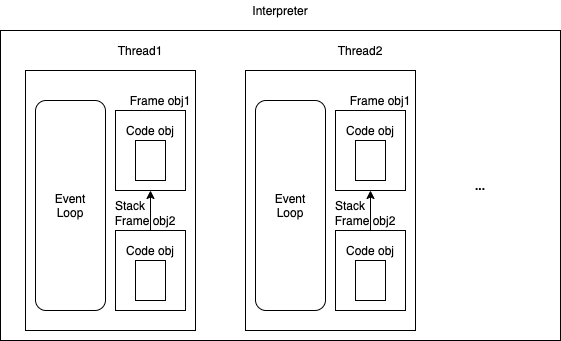
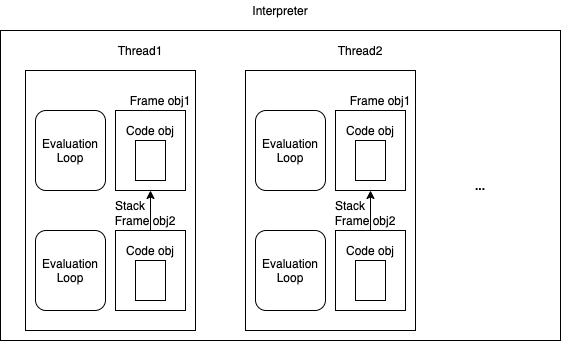
lid: ch6 add evaluation loop

diff --git a/Language_in_depth/python/cpython/6_evaluation_loop.md b/Language_in_depth/python/cpython/6_evaluation_loop.md
@@ -3,6 +3,13 @@
 - 의문
 - 0. 부록: python gil scheduling
 - 개요
+- Frame Execution
+- The Value Stack
+- Macros
+- Stack Effects
+- Opcode Predictions
+- `CALL_FUNCTION`, `CALL_METHOD`
+- Conclusion
 
 ## 의문
 
@@ -10,6 +17,7 @@
   - 그렇기 때문에 결국에는 한번에 하나의 스레드의 instruction밖에 실행하지 못하는 것인가?
   - I/O bound 연산의 경우에는 CPU bound 동작이 없으므로 득을 볼 수 있는 것인가?
   - **아니다. 각 스레드마다 evaluation loop이 존재한다. 다만, GIL로 락이 걸려있을 뿐**
+- *PREDICT macro는 얼마나 효율적인가? 그렇게 시간복잡도에 큰 영향을 끼치는가?*
 
 ## 0. 부록: python gil scheduling
 
@@ -124,14 +132,14 @@ def execution_loop(target_function, thread_id):
   - 그렇지 않으면 굳이 lock을 할 필요가 없을듯
 - 스레드가 새로 생성되면 `take_gil()` 메서드 실행
 - GIL을 특정 thread가 가져감(take_gil)
-- evaluation loop는 해당 thread의 thread state에서 frame오브젝트를 가져옴
-- frame오브젝트는 code object를 가져옴
+- 해당 thread의 thread state에서 와 다른 정보로부터 frame오브젝트 생성
+  - frame오브젝트는 code object를 포함
 - evaluation loop는 해당 code object를 실행
 - 동작이 끝나고, 기존에 gil을 기다리는 스레드가 존재하면(`gil.drop_request = True`) `drop_gil` 메서드 실행
 - 의문
   - 위의 psudo code에서 gil에 의한 lock은 evaluation loop의 어디에서 일어나는지?
     - `take_gil()`함수에서 무한 루프를 돌게 되어있음
-  - *새로운 스레드가 spawn되면 `take_gil()`이 동작한다고 했는데, 여기서 일단 `gil_mutex.acquire()`를 한 뒤에, `gil.drop_request = True`로 설정하고, 계속해서 무한루프를 돌고, `drop_gil()`에서 `gil.locked = False`가 될 때까지 반복하는데, 그 전에 `drop_gil()`에서도 `gil_mutex.acquire()`를 호출하는데, 그럼 데드락이 발생하는 것 아닌가?*
+  - 새로운 스레드가 spawn되면 `take_gil()`이 동작한다고 했는데, 여기서 일단 `gil_mutex.acquire()`를 한 뒤에, `gil.drop_request = True`로 설정하고, 계속해서 무한루프를 돌고, `drop_gil()`에서 `gil.locked = False`가 될 때까지 반복하는데, 그 전에 `drop_gil()`에서도 `gil_mutex.acquire()`를 호출하는데, 그럼 데드락이 발생하는 것 아닌가?
     - `gil_condition.wait()`이 자신의 **lock을 release하면서** timeout까지 기다리거나, `notify()`메서드가 다른 lock을 acquire한 곳에서 호출되기 까지 기다림.
     - 스레드가 여러개인 경우, `take_gil()` 각 함수들은 `take_gil()`의 코드 중 `timed_out = not gil_condition.wait(timeout=DEFAULT_INTERVAL)`에서 블로킹 되고 있고, condition에 `wait()` 순서를 데이터로 관리 (FIFO) 하고 있고, `gil`을 소유하고 있는 thread는 `drop_gil()`에서 가장 먼저 `wait()`하고 있던 thread의 `wait()`을 풀어주고, (`gil_condition.notify(), gil_mutex.release()`) 자신도 `take_gil()`에서 순서를 기다림
   - *`GIL`은 priority나 waiting 타임을 상황에 따라서 변경하는 로직이 존재하는가?*
@@ -212,7 +220,7 @@ f3.start()
 
 - Code objects
   - 개요
-    - 오브젝트 s.t AST로부터 파싱된 bytecode형태의 discrete 연산의 리스트를 포함
+    - 오브젝트 s.t AST로부터 파싱된 bytecode형태의 discrete 연산의 리스트 and list of variables and symbol table
     - code object는 input이 있어야 실행이 가능
       - input은 local, global 변수의 형태로 받아들여짐(Value Stack에서 다뤄짐)
     - **결국 컴파일러는 코드 오브젝트를 생성하는 역할이고, 그것을 실제로 실행하고 state를 다루는 것은 interpreter의 역할**
@@ -379,7 +387,7 @@ _PyEval_EvalFrame(PyThreadState *tstate, PyFrameObject *f, int throwflag)
 
 // 위의 interp->eval_frame(tstate, f, throwflag) 의 호출은
 // 아래의 _PyEval_EvalFrameDefault() 메서드의 호출과 같음
-
+// this function is only option for CPython
 PyObject* _Py_HOT_FUNCTION
 _PyEval_EvalFrameDefault(PyThreadState *tstate, PyFrameObject *f, int throwflag)
 {
@@ -477,6 +485,9 @@ main_loop:
           }
 
           case TARGET(LOAD_FAST): {
+              // The list of variable pointers is stored in `fastlocals`, which is copy of the PyFrame attribute `f_localsplus`
+              // oparg is a number, pointing to the index in the `fastlocals` array pointer
+              // loading of a local is simply a copy of the pointer instead of having to look up the variable name
               PyObject *value = GETLOCAL(oparg);
               if (value == NULL) {
                   format_exc_check_arg(tstate, PyExc_UnboundLocalError,
@@ -520,6 +531,41 @@ main_loop:
           }
 
           ...
+
+          case TARGET(LIST_APPEND): {
+              // element to be appended is from the value stack
+              PyObject *v = POP();
+              // list pointer is loaded
+              PyObject *list = PEEK(oparg);
+              int err;
+              // defined at Objects > listobject.c
+              err = PyList_Append(list, v);
+              Py_DECREF(v);
+              if (err != 0)
+                  goto error;
+              // guess the next operation
+              // CPU can jump to that instruction and not have to go through the loop again
+              PREDICT(JUMP_ABSOLUTE);
+              DISPATCH();
+          }
+
+          ...
+
+          case TARGET(CALL_FUNCTION): {
+              PREDICTED(CALL_FUNCTION);
+              PyObject **sp, *res;
+              sp = stack_pointer;
+              res = call_function(tstate, &sp, oparg, NULL);
+              stack_pointer = sp;
+              PUSH(res);
+              if (res == NULL) {
+                  goto error;
+              }
+              DISPATCH();
+          }
+
+          ...
+
         }
 exiting:
     if (tstate->use_tracing) {
@@ -657,3 +703,69 @@ dis.dis(test_func)
     - `next_instr++`
   - `FAST_DISPATCH()`
     - fast_next_opcode 로 넘어감
+- Cpython에서 C Macro가 많은 이유
+  - 함수 호출 오버헤드 없이 reusable한 코드를 생성할 수 있음
+    - compile time에 macro를 C code로 변환함
+
+## Frame Execution
+
+- `_PyEval_EvalFrameDefault()`
+  - **CPython에서 실행되는 모든 것들은 이 함수를 통과하게 되어있음**
+
+## The Value Stack
+
+- value stack
+  - 정의
+    - `PyObject`인스턴스로 이어지는 포인터의 리스트
+      - 변수, 함수에의 참조(Python object), 또 다른 파이썬 오브젝트일 수 있음
+    - Bytecode instruction은 value stack으로부터 input을 받음
+      - e.g) 함수 호출
+
+## Macros
+
+- `POP()`
+  - Value stack의 가장 위에 있는 원소를 가져오고 pop함
+- `PEEK(0)`
+  - Value stack의 가장 위에 있는 원소의 pointer를 가져옴
+- `DUP_TOP()`
+  - Value stack의 가장 위에 있는 원소의 복사본을 생성하고(같은 오브젝트에 대한 다른 포인터) PUSH함
+- `ROT_TWO()`
+  - Value stack의 가장 위에 있는 원소와 두번쨰 원소의 위치를 바꿔치기 함
+
+## Stack Effects
+
+- 개요
+  - 각 opcode마다 미리 정의된 `stack_effect()` 함수에 의해서 계산되는 stack effect라는 것을 갖고 있음
+  - *각 연산마다 필요한 value stack의 값의 개수?*
+
+## Opcode Predictions
+
+- 개요
+  - 일부의 opcode는 페어로 등장하는데, 첫번째 opcode를 실행할 때, 두번째 opcode를 추측할 수 있음
+    - `COMPARE_OP` 는 주로 `POP_JUMP_IF_FALSE`나 `POP_JUMP_IF_TRUE`가 뒤따름
+  - 추측이 잘 된 경우에는 또 다시 eval-loop와 switch문을 실행할 필요가 없음
+  - 만약 추측이 잘 된경우에는, 두개의 opcode가 마치 하나의 opcode인 것처럼 실행할 수 있음
+
+## `CALL_FUNCTION`, `CALL_METHOD`
+
+- 개요
+  - 또 다른 컴파일된 함수에 대한 reference를 operation argument로 갖음
+  - value stqack에 해당 함수 reference 추가
+  - `call_function(PyThreadState *tstate, PyObject ***pp_stack, Py_ssize_t oparg, PyObject *kwnames)` 호출
+    - `x = PyObject_Vectorcall(func, stack, nargs | PY_VECTORCALL_ARGUMENTS_OFFSET, kwnames);` 호출
+      - `_PyObject_VectorcallTstate(tstate, callable, args, nargsf, kwnames);` 호출
+        - `func = PyVectorcall_Function(callable);`
+        - `res = func(callable, args, nargsf, kwnames);`
+          - *`_PyFunction_Vectorcall(PyObject *func, PyObject* const* stack, size_t nargsf, PyObject *kwnames)`*
+            - vectorcallfunc가 여기서 호출?
+    - `return x`
+  - 또 다른 frame이 해당 thread의 frame stack으로 push됨
+  - evaluation loop이 해당 함수가 끝날 때 까지 실행됨
+  - 새로운 프레임이 생성될 때 마다, 그 frame의 `f_back`은 현재의 frame으로 설정
+
+## Conclusion
+
+- core evaluation loop
+  - 컴파일된 Python code와 C extension modules, libraries, system call사이의 인터페이스
+- value stack에 변수를 loading하기 위해서는 memory allocation과 management가 필요함
+  - 다음 챕터에서 다룸
